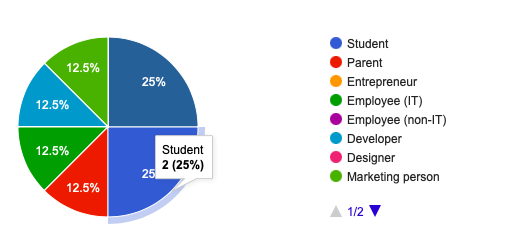
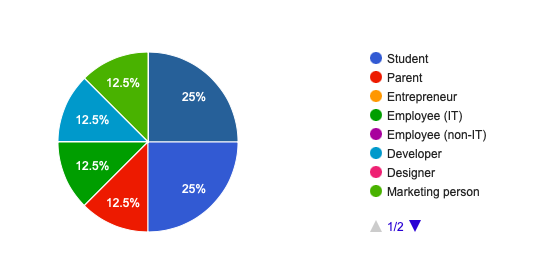
fix: research image was missing

Changed region(s): [[0.0296, 0.1417, 0.4438, 0.9069], [0.6509, 0.1417, 0.9172, 0.7652], [0.6509, 0.8219, 0.7988, 0.8785]]

diff --git a/projects/artekk.html b/projects/artekk.html
@@ -37,6 +37,9 @@
             <p>User Research survey forms for AR Mirror</p>
         </a>
         <br>
+        <img loading="lazy" class="img multiply" src="../images/ARtekk/Research.png"
+            alt="User Research for a better AR experience">
+        <br>
         <p>We used Google Forms to get relevant data from diverse users who go shopping and may love to see an AR mirror
             that shows with clothes as they virtually try-on.</p>
         <h2 class="projects">- brand kit (Space Grotesk) -</h2>
